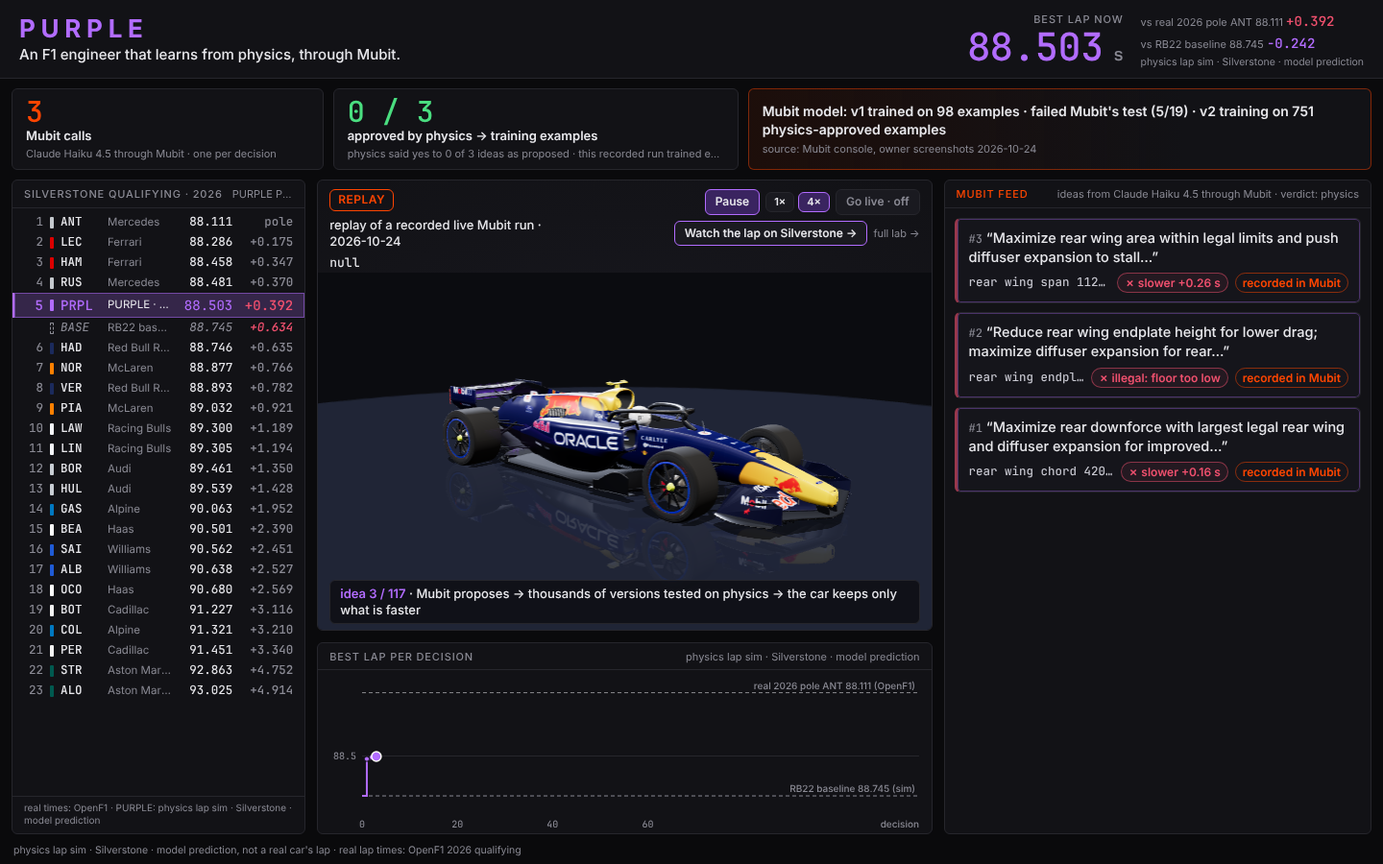
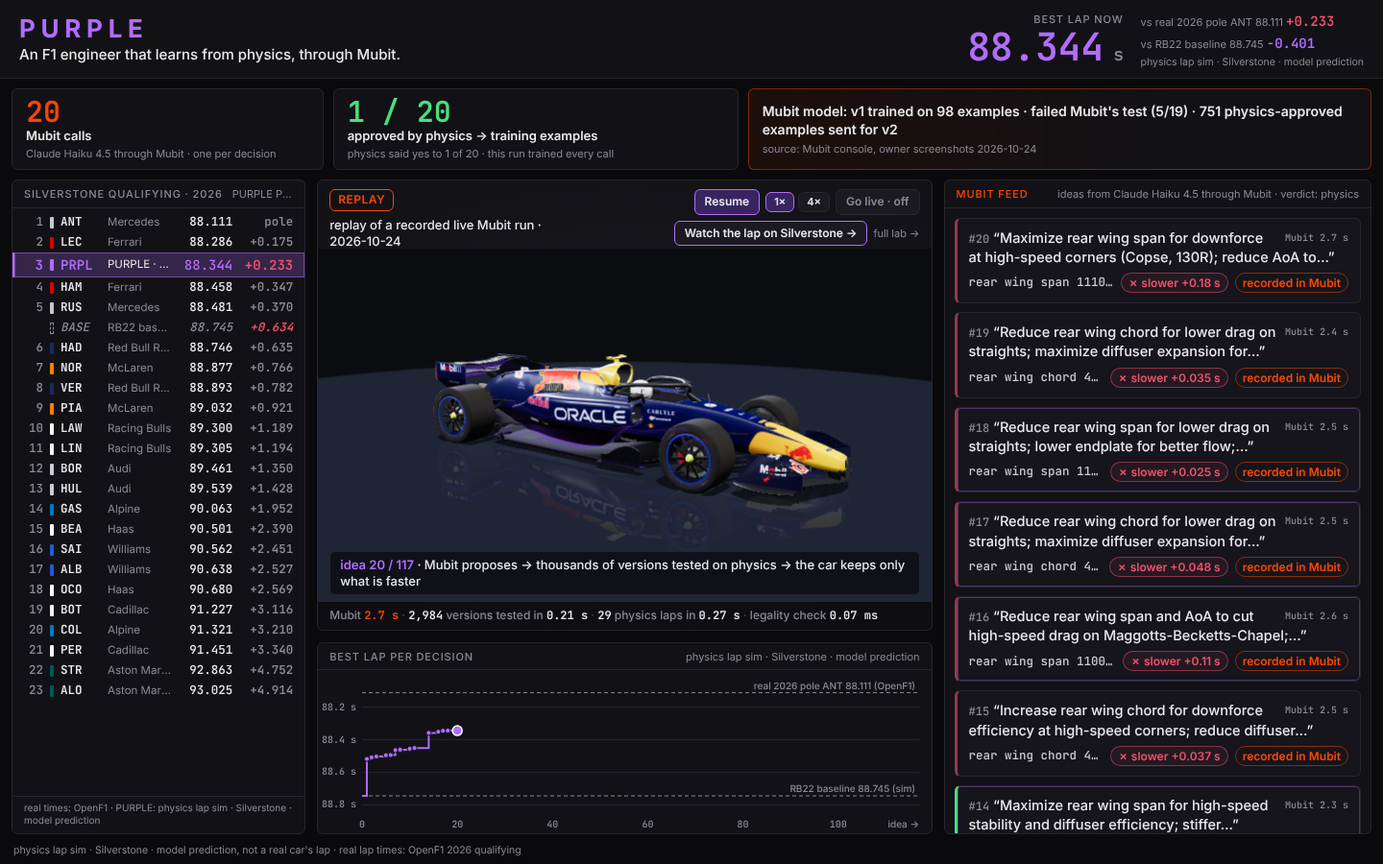
Demo polish: timing strip, training chips in replay, QA fixes
- Timing strip under the car, per decision, from the run's own rows:
  "Mubit 2.4 s · 2,985 versions tested in 0.64 s · 31 physics laps in 1.4 s ·
  legality check 0.2 ms" (per-version figure = rules check + quick lap estimate,
  stated in its tooltip); tiny "Mubit 2.6 s" on each feed card.
- replay.js: record_good runs (good.jsonl, or calls.jsonl rows with record_good)
  carry training_example sent + trained_request_id / failed / not trained per
  decision, plus record_good, designer_calls, training_examples; the demo shows
  the same chips and counters as live and prefers a record_good replay.
- Fixes: live training chip stuck on "pending" (refreshCard replaced the new node
  with itself); controls rebuilt every decision swallowed clicks at 4x; skip to
  end rebuilt the car 117 times; chart x labels stopped at 60 and the y axis had
  two labels; Go live said "unlock" where live is off; unlock pages link back to
  the demo.
- Test: replay of a record_good run (fixture + a route-recorded run).
- Fresh screenshots demo-*.png (1440x900, 390x844; live = stubbed API, no Mubit).

Claude-Session: https://claude.ai/code/session_014XiAhdMp7HgLX2NuhzBQy2

diff --git a/concept/demo/demo.js b/concept/demo/demo.js
@@ -78,7 +78,7 @@
     for (const dir of ["replays/", "../lab/replays/"]) {
       try {
         const idx = await getJson(dir + "index.json"), runs = (idx && idx.runs || []).filter(r => r.kind === "engineer-v2");
-        const want = qs.get("replay"), pick = runs.find(r => r.name === want) || runs.find(r => /corrections/.test(r.name)) || runs[0];
+        const want = qs.get("replay"), pick = runs.find(r => r.name === want) || runs.find(r => r.record_good) || runs.find(r => /corrections/.test(r.name)) || runs[0];
         if (pick) return { dir, meta: pick };
       } catch (e) { /* next */ }
     }
@@ -97,7 +97,10 @@
     return {
       n: d.decision, by: d.by, id: d.mubit_request_id || null, trained: !!d.trained, hypothesis: d.hypothesis || null, fallback: d.fallback_reason || null,
       change: d.proposal_change || null, as: d.as_proposed || null, kept: !!d.kept, new_peak: !!d.new_peak, d_head: d.d_head_s,
-      lap: d.result ? d.result.lap_s : null, best_change: d.best_change || null, params: d.params || null, train: extra.train || null, trainedId: null,
+      lap: d.result ? d.result.lap_s : null, best_change: d.best_change || null, params: d.params || null, train: extra.train || null, trainedId: extra.trainedId || null, trainErr: extra.trainErr || null,
+      // timings of this decision, as the engine measured them (concept/engineer/engine.js compactDecision)
+      t: { call_ms: isNum(d.latency_ms) ? d.latency_ms : null, versions: d.screen && isNum(d.screen.distinct) ? d.screen.distinct : null, screen_ms: d.screen && isNum(d.screen.ms) ? d.screen.ms : null,
+        laps: isNum(d.physics_laps) ? d.physics_laps : null, laps_ms: isNum(d.physics_ms) ? d.physics_ms : null },
     };
   }
 
@@ -114,8 +117,12 @@
   function replayStep() {
     const R = S.replay; if (!R || S.shown >= R.decisions.length) { S.playing = false; S.status = "done"; clearTimeout(S.timer); renderAll(); return false; }
     const d = R.decisions[S.shown++];
-    const c = norm(d, { train: d.trained ? "recorded" : approved(norm(d)) ? "approved-untrained" : "untrained" });
+    // a run recorded with record_good: the same chips as live ("→ Mubit training example" with the trained call's id / "correction: not trained")
+    const c = R.record_good
+      ? norm(d, d.training_example === "sent" ? { train: "trained", trainedId: d.trained_request_id } : d.training_example === "failed" ? { train: "failed", trainErr: d.training_error } : { train: "rejected" })
+      : norm(d, { train: d.trained ? "recorded" : approved(norm(d)) ? "approved-untrained" : "untrained" });
     S.calls += c.id ? 1 : 0;
+    if (c.train === "trained") S.examples++;
     addDecision(c, c.kept && c.params ? designFromDiff(c.params) : null, peakLapAfter(d));
     return true;
   }
@@ -131,7 +138,8 @@
     tick();
   }
   function pause() { S.playing = false; clearTimeout(S.timer); if (S.status === "playing") S.status = "paused"; renderCtl(); }
-  function skipToEnd() { pause(); while (S.replay && S.shown < S.replay.decisions.length) replayStep(); if (S.replay) { S.status = "done"; renderAll(); } }
+  // to the end in one go: the car is rebuilt once (the last kept car) and the page rendered once, not 117 times
+  function skipToEnd() { pause(); S.bulk = true; S.pendingCar = null; try { while (S.replay && S.shown < S.replay.decisions.length) replayStep(); } finally { S.bulk = false; } if (S.pendingCar) showCar(S.pendingCar); S.pendingCar = null; if (S.replay) { S.status = "done"; renderAll(); } }
 
   // ---------------------------------------------------------------- live (record_good) / offline demo
   async function startRun(llm) {
@@ -197,9 +205,9 @@
     if (S.best < prevBest - 1e-9) S.bestDesign = peakDesign || carDesign || S.bestDesign;
     S.trace.push([c.n, S.best]);
     S.marks.push({ n: c.n, kept: c.kept, lap: c.lap, legal: !(c.as && c.as.legal === false) });
-    if (carDesign) showCar(carDesign);
+    if (carDesign) { if (S.bulk) S.pendingCar = carDesign; else showCar(carDesign); }
     const cards = $("#dmCards"); cards.prepend(card(c)); while (cards.children.length > 40) cards.lastChild.remove();
-    renderAll(true);
+    if (!S.bulk) renderAll(true);
   }
   function showCar(d) {
     if (!d || !S.view) return;
@@ -207,7 +215,7 @@
   }
 
   // ---------------------------------------------------------------- render
-  function renderAll(fromDecision) { renderLap(); renderCounters(); renderBoard(); renderChart(); renderMode(); renderCtl(); renderProgress(); if (!fromDecision) renderFoot(); }
+  function renderAll(fromDecision) { renderLap(); renderCounters(); renderBoard(); renderChart(); renderMode(); renderCtl(); renderProgress(); renderTiming(); if (!fromDecision) renderFoot(); }
   function renderLap() {
     const best = S.final ? S.final.lap_s : S.best, base = S.baseline ? S.baseline.lap_s : RB22;
     $("#dmLap").replaceChildren(
@@ -220,11 +228,12 @@
   function counter(label, value, sub, cls, title) { return el("div", { class: "dm-ctr " + (cls || ""), title: title || null }, el("span", { class: "dm-ctr-v num" }, value), el("span", { class: "dm-ctr-l" }, label), sub ? el("span", { class: "src" }, sub) : null); }
   function renderCounters() {
     const ok = S.cards.filter(approved).length, n = S.cards.length;
-    const calls = S.mode === "mock" ? 0 : S.mode === "live" ? S.calls + S.examples : S.calls;
-    const okSub = S.mode === "live" ? "the physics sim said yes: sent to Mubit as trained calls" : S.mode === "mock" ? "offline demo: nothing is sent to Mubit" : "physics said yes to " + ok + " of " + n + " ideas as proposed · this recorded run trained every call";
+    const rg = S.mode === "live" || (S.mode === "replay" && !!(S.replay && S.replay.record_good));   // untrained calls + one trained re-send per approved idea
+    const calls = S.mode === "mock" ? 0 : rg ? S.calls + S.examples : S.calls;
+    const okSub = S.mode === "mock" ? "offline demo: nothing is sent to Mubit" : rg ? "physics said yes to " + ok + " of " + n + " ideas · each one sent to Mubit" : "physics said yes to " + ok + " of " + n + " · this run trained every call";
     $("#dmCounters").replaceChildren(
-      counter("Mubit calls", int(calls), S.mode === "mock" ? "offline demo: a scripted stand-in, not a model" : "Claude Haiku 4.5 through Mubit · one per decision", "mubit"),
-      counter("approved by physics → training examples", S.mode === "live" ? String(S.examples) : ok + " / " + n, okSub, "good", "an idea counts as approved when the model's change, exactly as proposed, is legal and faster on the physics lap sim"),
+      counter("Mubit calls", int(calls), S.mode === "mock" ? "offline demo: a scripted stand-in, not a model" : rg ? "Claude Haiku 4.5 · one per idea + one per example" : "Claude Haiku 4.5 through Mubit · one per decision", "mubit"),
+      counter("approved by physics → training examples", rg ? String(S.examples) : ok + " / " + n, okSub, "good", "an idea counts as approved when the model's change, exactly as proposed, is legal and faster on the physics lap sim" + (rg ? "; each approved idea is sent to Mubit again as a training example" : "")),
       el("div", { class: "dm-ctr dm-model", title: "source: " + MUBIT_MODEL.source }, el("span", { class: "dm-model-t" }, MUBIT_MODEL.text), el("span", { class: "src" }, "source: " + MUBIT_MODEL.source)));
   }
   function teamOfCode(code) { const seat = RP && RP.seat && RP.seat[code]; if (seat) { const t = TEAMS.find(x => x.id === seat || x.name === seat || x.code === seat); if (t) return t; } return TEAMS.find(t => (t.drivers || []).includes(code)) || null; }
@@ -265,10 +274,13 @@
     const ys = S.trace.map(p => p[1]).concat([POLE, base]), lo = Math.min(...ys) - 0.08, hi = Math.max(...ys) + 0.1;
     const pad = { l: 46, r: 12, t: 10, b: 22 }, iw = W - pad.l - pad.r, ih = H - pad.t - pad.b;
     const X = v => pad.l + v / xmax * iw, Y = v => pad.t + (v - lo) / (hi - lo) * ih;
-    const g = [], step = nice((hi - lo) / 4);
-    for (let v = Math.ceil(lo / step) * step; v <= hi + 1e-9; v += step) g.push(sv("line", { class: "grid", x1: pad.l, x2: W - pad.r, y1: Y(v), y2: Y(v) }), sv("text", { class: "ax", x: pad.l - 6, y: Y(v) + 3, "text-anchor": "end", text: v.toFixed(1) }));
-    const sx = nice(xmax / 6); for (let v = 0; v <= xmax + 1e-9; v += sx) if (X(v) < W - pad.r - 200) g.push(sv("text", { class: "ax", x: X(v), y: H - 6, "text-anchor": "middle", text: String(Math.round(v)) }));
-    g.push(sv("text", { class: "ax ttl", x: W - pad.r, y: H - 6, "text-anchor": "end", text: "decision" }));
+    const g = [];
+    let step = nice((hi - lo) / 4); if (Math.floor(hi / step) - Math.ceil(lo / step) < 2) step = nice(step / 2.5);   // at least three lap labels (0.5 -> 0.2)
+    let ydp = 0; while (ydp < 3 && Math.abs(Math.round(step * 10 ** ydp) - step * 10 ** ydp) > 1e-6) ydp++;   // 0.05 -> 2 decimals, 0.2 -> 1
+    for (let k = Math.ceil(lo / step); k * step <= hi + 1e-9; k++) { const v = k * step; g.push(sv("line", { class: "grid", x1: pad.l, x2: W - pad.r, y1: Y(v), y2: Y(v) }), sv("text", { class: "ax", x: pad.l - 6, y: Y(v) + 3, "text-anchor": "end", text: v.toFixed(ydp) + " s" })); }
+    // x: the idea number; the labels stop short of the axis title
+    const sx = nice(xmax / 6); for (let v = 0; v <= xmax + 1e-9; v += sx) if (X(v) < W - pad.r - 58) g.push(sv("text", { class: "ax", x: X(v), y: H - 6, "text-anchor": "middle", text: String(Math.round(v)) }));
+    g.push(sv("text", { class: "ax ttl", x: W - pad.r, y: H - 6, "text-anchor": "end", text: "idea →" }));
     const ref = (v, label, cls) => g.push(sv("line", { class: "ref " + cls, x1: pad.l, x2: W - pad.r, y1: Y(v), y2: Y(v) }), sv("text", { class: "reft", x: W - pad.r - 4, y: Y(v) - 4, "text-anchor": "end", text: label }));
     ref(POLE, "real 2026 pole " + POLE_CODE + " " + f3(POLE) + " (OpenF1)", "pole"); ref(base, "RB22 baseline " + f3(base) + " (sim)", "base");
     const p = S.trace;
@@ -296,7 +308,7 @@
     }
     $("#dmMode").replaceChildren(...[badge, line, S.error && S.mode !== "replay" ? el("span", { class: "warn src" }, S.error) : null].filter(Boolean));
   }
-  function renderCtl() {
+  function buildCtl() {
     const raceHref = () => { const R = C.race; return R && S.bestDesign ? R.url(S.bestDesign, { base: "../race/", ref: "redbull" }) : "../race/"; };
     const kids = [];
     if (S.mode === "replay") {
@@ -309,10 +321,22 @@
     }
     kids.push(S.liveOk
       ? el("button", { type: "button", class: "btn dm-golive", id: "dmGoLive", disabled: S.status === "running" ? true : null, title: "start the engine now: " + LIVE_CALLS + " Mubit calls (Claude Haiku 4.5, untrained); every idea the physics sim approves is re-sent by the server as a trained call, a Mubit training example", onclick: () => startRun("live") }, "Go live")
-      : el("a", { class: "btn dm-golive off", id: "dmGoLive", href: S.deploy ? "/api/unlock" : "#", title: "live needs " + (S.liveWhy || "the passcode"), onclick: S.deploy ? null : e => e.preventDefault() }, S.deploy ? "Go live · unlock" : "Go live · off"));
+      : (() => {
+        // locked: this deployment goes live after the passcode (its unlock page); off: no live calls here at all
+        const canUnlock = !!(S.deploy && S.deploy.live && S.deploy.live.available && !S.deploy.live.unlocked);
+        const href = canUnlock ? API + (S.deploy.live.unlock || "/api/unlock") : "#";
+        return el("a", { class: "btn dm-golive off", id: "dmGoLive", href, "aria-disabled": canUnlock ? null : "true", title: canUnlock ? "live Mubit calls need the passcode: unlock in this browser, then come back here" : "live is off: " + (S.liveWhy || "no engine API"), onclick: canUnlock ? null : e => e.preventDefault() }, canUnlock ? "Go live · unlock" : "Go live · off");
+      })());
     kids.push(el("a", { class: "btn dm-race", id: "dmRace", href: raceHref(), title: "the best car's physics-sim lap on the game's 3D Silverstone, with the RB22 and the real 2026 pole lap as ghosts", onclick: e => { e.currentTarget.href = raceHref(); } }, "Watch the lap on Silverstone →"),
       el("a", { class: "src dm-full", href: "../lab/" + (qs.get("api") ? "?api=" + encodeURIComponent(qs.get("api")) : "") }, "full lab →"));
     $("#dmCtl").replaceChildren(...kids);
+    S.raceFor = S.bestDesign;
+  }
+  // the controls are rebuilt only when what they show changes: a rebuild on every decision (4×: every 250 ms) swallowed clicks
+  function renderCtl() {
+    const key = JSON.stringify([S.mode, S.playing, S.status, S.shown > 0, S.pace, S.liveOk, S.liveWhy, S.deploy && S.deploy.live || null]);
+    if (key !== S.ctlKey || !$("#dmCtl").firstChild) { S.ctlKey = key; buildCtl(); return; }
+    if (S.raceFor !== S.bestDesign) { const a = $("#dmRace"), R = C.race; if (a && R && S.bestDesign) a.href = R.url(S.bestDesign, { base: "../race/", ref: "redbull" }); S.raceFor = S.bestDesign; }
   }
   function renderProgress() {
     const host = $("#dmProgress");
@@ -321,6 +345,26 @@
     else host.replaceChildren();
   }
   function renderFoot() { $("#dmFoot").textContent = FOOT; }
+  // ---------------------------------------------------------------- timings (per decision, as the engine measured them)
+  const secs = ms => (ms < 1000 ? (ms / 1000).toFixed(2) : (ms / 1000).toFixed(1)) + " s";
+  const who = () => (S.mode === "mock" ? "stand-in" : "Mubit");
+  function callTime(c) {
+    if (!c.t || !isNum(c.t.call_ms)) return null;
+    return el("span", { class: "dm-rid num", title: S.mode === "mock" ? "the scripted stand-in's answer time (no Mubit call)" : "time for this Mubit call (Claude Haiku 4.5 through Mubit), measured by the engine" }, who() + " " + secs(c.t.call_ms));
+  }
+  function renderTiming() {
+    const host = $("#dmTiming"); if (!host) return;
+    const c = S.cards[S.cards.length - 1], t = c && c.t;
+    if (!t) { host.replaceChildren(el("span", null, "timings for each idea appear here: the " + who() + " call, the versions tested, the physics laps")); host.removeAttribute("title"); return; }
+    const parts = [];
+    const seg = (title, ...kids) => parts.push(el("span", { class: "dm-tseg", title }, ...kids));
+    if (isNum(t.call_ms)) seg(S.mode === "mock" ? "the scripted stand-in's answer (no Mubit call)" : "the Mubit call: Claude Haiku 4.5 through Mubit, request to answer", who() + " ", el("b", null, secs(t.call_ms)));
+    if (isNum(t.versions) && isNum(t.screen_ms)) seg("versions of the idea generated around it, each checked against the 2026 rules and given a quick lap estimate (4 worker threads); the best go to the physics lap sim", el("b", null, int(t.versions)), " versions tested in ", el("b", null, secs(t.screen_ms)));
+    if (isNum(t.laps) && isNum(t.laps_ms)) seg("full physics laps of Silverstone on the most promising versions (4 worker threads)", el("b", null, int(t.laps)), " physics laps in ", el("b", null, secs(t.laps_ms)));
+    if (isNum(t.versions) && t.versions > 0 && isNum(t.screen_ms)) { const per = t.screen_ms / t.versions; seg("time per version tested: the 2026 rules check plus the quick lap estimate, so the rules check alone takes at most this", "legality check ", el("b", null, per.toFixed(per < 0.1 ? 2 : 1) + " ms")); }
+    host.replaceChildren(...parts.flatMap((p, i) => (i ? [el("span", { class: "dm-tsep", "aria-hidden": "true" }, " · "), p] : [p])));
+    host.title = "idea #" + c.n + " · measured by the engine during the " + (S.mode === "replay" ? "recorded run" : "run");
+  }
   // ---------------------------------------------------------------- the Mubit feed card
   function verdict(c) {
     if (c.by !== "mubit") return el("span", { class: "dm-chip muted", title: c.fallback || "" }, "no usable answer");
@@ -343,12 +387,13 @@
   }
   function card(c) {
     const n = el("article", { class: "dm-card" + (approved(c) ? " ok" : " no") + (c.new_peak ? " peak" : ""), "data-n": c.n, title: c.id ? "Mubit request " + c.id + (c.trained ? " (trained call)" : " (untrained call)") : null },
-      el("div", { class: "dm-c1" }, el("span", { class: "num dm-n" }, "#" + c.n), " ", c.hypothesis ? "“" + trim(c.hypothesis, 90) + "”" : "the model's answer could not be used"),
+      el("div", { class: "dm-c1" }, callTime(c), el("span", { class: "num dm-n" }, "#" + c.n), " ", c.hypothesis ? "“" + trim(c.hypothesis, 90) + "”" : "the model's answer could not be used"),
       el("div", { class: "dm-c2" }, el("span", { class: "dm-chg" }, c.change ? plainChange(c.change, 2) : "no change"), verdict(c), trainChip(c)));
     c.el = n;
     return n;
   }
-  function refreshCard(c) { if (c.el && c.el.parentNode) { const n = card(c); c.el.replaceWith(n); } }
+  // card(c) re-points c.el at the new node, so keep the old one first (replacing c.el after card(c) was a no-op: the chip stayed "pending")
+  function refreshCard(c) { const old = c.el; if (!old || !old.parentNode) return; const n = card(c); n.style.animation = "none"; old.replaceWith(n); }
 
   // ---------------------------------------------------------------- 3D (EI.conceptView public API only, as the engine drawer mounts it)
   function mountView() {

diff --git a/concept/engineer/replay.js b/concept/engineer/replay.js
@@ -9,6 +9,8 @@
 // (mock: no mreq_ id) are refused.
 // Output: <out>/index.json (the list, newest first) and <out>/<name>.json (format "purple-replay/1"; one decision per Mubit call or
 // fallback step, the tree's result nodes, the peak, per-run stats including the share of kept gains from Mubit-directed decisions).
+// A run recorded with record_good (cli.js --record-good: good.jsonl; the engine route: calls.jsonl rows with record_good: true) also
+// carries, per decision, training_example "sent" + trained_request_id | "failed" | "not trained", as the live stream says it.
 "use strict";
 const fs = require("fs"), path = require("path");
 const ROOT = path.join(__dirname, "..", "..");
@@ -78,20 +80,38 @@ function fromV1(dir, name) {
   };
 }
 
-// engine v2 runs: decisions.jsonl (compact decisions) + calls.jsonl + run.json (+ tree.json)
+// record_good runs (concept/engineer/record-good.js): which decisions became a Mubit training example. The terminal run writes
+// good.jsonl ({ decision, d_lap_s, untrained_id, trained_id, served_by } or { decision, error }); the engine route writes only the
+// calls.jsonl rows with record_good: true (iteration = decision). good.jsonl wins when both exist. null = not a record_good run.
+function trainingOf(dir, calls) {
+  const good = readJsonl(path.join(dir, "good.jsonl")), rg = calls.filter(c => c.record_good === true);
+  if (!good.length && !rg.length) return null;
+  const by = new Map();
+  if (good.length) for (const g of good) by.set(g.decision, g.error ? { error: String(g.error) } : { trained_id: g.trained_id || null, served_by: g.served_by || null });
+  else for (const c of rg) by.set(c.iteration, c.status === "error" || !c.mubit_request_id ? { error: c.mubit_code || "error" } : { trained_id: c.mubit_request_id, served_by: c.served_by || null });
+  return by;
+}
+
+// engine v2 runs: decisions.jsonl (compact decisions) + calls.jsonl + run.json (+ tree.json, + good.jsonl for a record_good run)
 function fromV2(dir, name) {
   const decs = readJsonl(path.join(dir, "decisions.jsonl")), calls = readJsonl(path.join(dir, "calls.jsonl")), run = readJson(path.join(dir, "run.json")), ev = readJsonl(path.join(dir, "events.jsonl"));
   const start = ev.find(e => e.type === "start") || {}, fin = run && run.final ? run.final : null;
   const team = (run && run.opts && run.opts.team) || "redbull", base = design.baseline(team === "generic" ? undefined : { team });
   const nodes = [{ id: "n0", parent: null, decision: null, kind: "root", lap_s: start.baseline ? start.baseline.lap_s : null, legal: true, by: "baseline" }];
   for (const e of ev.filter(x => x.type === "decision")) for (const n of e.nodes || []) nodes.push(n);
-  const decisions = decs.map(d => Object.assign({}, d, { at: (ev.find(e => e.type === "decision" && e.decision === d.decision) || {}).at || null, params: (() => { const e = ev.find(x => x.type === "decision" && x.decision === d.decision); return e && e.head_params ? paramDiff(base, e.head_params) : null; })() }));
+  const training = trainingOf(dir, calls);
+  // per decision, as the live stream says it: "sent" (+ the trained call's request id), "failed" (the trained re-send errored) or "not trained"
+  const trainOf = d => { if (!training) return {}; const t = training.get(d.decision); return !t ? { training_example: "not trained" } : t.error ? { training_example: "failed", training_error: t.error } : { training_example: "sent", trained_request_id: t.trained_id }; };
+  const decisions = decs.map(d => Object.assign({}, d, { at: (ev.find(e => e.type === "decision" && e.decision === d.decision) || {}).at || null, params: (() => { const e = ev.find(x => x.type === "decision" && x.decision === d.decision); return e && e.head_params ? paramDiff(base, e.head_params) : null; })() }, trainOf(d)));
   const last = ev.filter(e => e.type === "decision").pop() || {};
   const ids = calls.map(c => c.mubit_request_id).filter(Boolean);
+  const examples = training ? decisions.filter(d => d.training_example === "sent").length : null;
   return {
     format: FORMAT, name, kind: "engineer-v2", engine: "engine v2 · autonomous engineer: Mubit decides the subspace → surrogate screen → physics confirm → interactions → kept / reverted by the numbers",
     source: path.relative(ROOT, dir), run_id: run ? run.run_id : null, recorded_at: (calls[0] || {}).created_at || null, model: (calls.find(c => c.model) || {}).model || null,
     trained: calls.some(c => c.trained === true), calls: calls.length, request_ids: ids, all_real: ids.length > 0 && ids.every(isReal), stop_reason: run ? run.stop_reason : null,
+    // record_good: designer calls untrained; the physics-approved ones re-sent as trained calls (training examples)
+    record_good: !!training, designer_calls: training ? calls.filter(c => c.record_good !== true).length : calls.length, training_examples: examples,
     team, baseline: start.baseline || null, pole_s: bench.racepace().silverstone.pole.s, peak: last.peak || null, stats: last.stats || (fin && fin.summary && fin.summary.stats) || null,
     label: "physics lap sim · quasi-steady-state point mass · Silverstone · calibrated to 2026 British GP qualifying (recorded run; replayed, not re-run)",
     nodes, decisions,
@@ -106,7 +126,7 @@ function build(dirs, out) {
     const r = fs.existsSync(path.join(dir, "decisions.jsonl")) ? fromV2(dir, name) : fromV1(dir, name);
     if (!r.all_real) { console.error("replay: skipped " + name + " (not every call has a real Mubit request id: never replay a mock as the AI)"); continue; }
     fs.writeFileSync(path.join(out, name + ".json"), JSON.stringify(r) + "\n");
-    index.push({ name, kind: r.kind, engine: r.engine, recorded_at: r.recorded_at, calls: r.calls, trained: r.trained, model: r.model, decisions: r.decisions.length, baseline_lap_s: r.baseline && r.baseline.lap_s, peak_lap_s: r.peak && r.peak.lap_s, gap_to_pole_s: r.peak && r.peak.gap_to_pole_s, directed_gain_share: r.stats ? r.stats.directed_gain_share : null, first_request_id: r.request_ids[0] || null, last_request_id: r.request_ids[r.request_ids.length - 1] || null, file: name + ".json" });
+    index.push({ name, kind: r.kind, engine: r.engine, recorded_at: r.recorded_at, calls: r.calls, trained: r.trained, record_good: !!r.record_good, training_examples: r.record_good ? r.training_examples : undefined, model: r.model, decisions: r.decisions.length, baseline_lap_s: r.baseline && r.baseline.lap_s, peak_lap_s: r.peak && r.peak.lap_s, gap_to_pole_s: r.peak && r.peak.gap_to_pole_s, directed_gain_share: r.stats ? r.stats.directed_gain_share : null, first_request_id: r.request_ids[0] || null, last_request_id: r.request_ids[r.request_ids.length - 1] || null, file: name + ".json" });
   }
   // engine v2 runs first, then the fastest
   index.sort((a, b) => (a.kind === "engineer-v2" ? 0 : 1) - (b.kind === "engineer-v2" ? 0 : 1) || String(b.recorded_at || "").localeCompare(String(a.recorded_at || "")));

diff --git a/server/vercel.js b/server/vercel.js
@@ -236,8 +236,8 @@ function create() {
   const app = new Hono();
   // ---- the passcode: typed once per browser, kept as an HttpOnly cookie (signed; never the passcode itself)
   const page = (title, body) => "<!doctype html><html lang=en><head><meta charset=utf-8><meta name=viewport content='width=device-width,initial-scale=1'><title>" + title + "</title><style>:root{color-scheme:dark}body{margin:0;background:#0d0d12;color:#e8e6f0;font:15px/1.5 system-ui,sans-serif;display:grid;place-items:center;min-height:100vh;padding:16px;box-sizing:border-box}main{max-width:420px;width:100%}h1{font-size:18px;margin:0 0 8px}p{color:#a9a6b8}input,button{font:inherit;padding:10px 12px;border-radius:8px;border:1px solid #3a3550;background:#16151f;color:inherit;width:100%;box-sizing:border-box;margin-top:8px}button{background:#7b4dff;border-color:#7b4dff;cursor:pointer}a{color:#b9a3ff}.bad{color:#ff8a8a}</style></head><body><main>" + body + "</main></body></html>";
-  const form = msg => page("PURPLE · unlock live Mubit", "<h1>Live Mubit calls</h1><p>Without the passcode the public site runs every Mubit call in mock mode. The passcode unlocks live, untrained calls in this browser for " + LIMITS.cookie_h + " h (limits: " + LIMITS.live_calls_per_ip_hour + " calls per hour per IP, " + LIMITS.live_calls_global_hour + " per hour site-wide).</p>" + (msg ? "<p class=bad>" + msg + "</p>" : "") + "<form method=post action=/api/unlock><input name=passcode type=password autocomplete=current-password placeholder=passcode required autofocus><button type=submit>Unlock</button></form><p><a href=/concept/lab/>Concept lab</a> · <a href=/lab/>Research lab</a> · <a href=/>Game</a></p>");
-  app.get("/api/unlock", c => c.html(authorized(c) ? page("PURPLE · unlocked", "<h1>Unlocked</h1><p>Live Mubit calls are on in this browser. Mode \"live\" in the concept lab now calls Mubit (untrained). <a href=/api/lock>Lock again</a>.</p><p><a href=/concept/lab/>Concept lab</a> · <a href=/lab/>Research lab</a></p>") : form(liveOff() ? "Live calls are off on this deployment: " + liveOff() : "")));
+  const form = msg => page("PURPLE · unlock live Mubit", "<h1>Live Mubit calls</h1><p>Without the passcode the public site runs every Mubit call in mock mode. The passcode unlocks live, untrained calls in this browser for " + LIMITS.cookie_h + " h (limits: " + LIMITS.live_calls_per_ip_hour + " calls per hour per IP, " + LIMITS.live_calls_global_hour + " per hour site-wide).</p>" + (msg ? "<p class=bad>" + msg + "</p>" : "") + "<form method=post action=/api/unlock><input name=passcode type=password autocomplete=current-password placeholder=passcode required autofocus><button type=submit>Unlock</button></form><p><a href=/>Demo</a> · <a href=/concept/lab/>Concept lab</a> · <a href=/lab/>Research lab</a></p>");
+  app.get("/api/unlock", c => c.html(authorized(c) ? page("PURPLE · unlocked", "<h1>Unlocked</h1><p>Live Mubit calls are on in this browser. Mode \"live\" in the concept lab now calls Mubit (untrained). <a href=/api/lock>Lock again</a>.</p><p><a href=/>Back to the demo: press Go live</a> · <a href=/concept/lab/>Concept lab</a> · <a href=/lab/>Research lab</a></p>") : form(liveOff() ? "Live calls are off on this deployment: " + liveOff() : "")));
   app.post("/api/unlock", async c => {
     const ip = ipOf(c), t = await c.req.text(); let pass = "";
     try { pass = (c.req.header("content-type") || "").includes("json") ? String(JSON.parse(t).passcode || "") : String(new URLSearchParams(t).get("passcode") || ""); } catch (e) { pass = ""; }

diff --git a/test/engineer-record-good.test.js b/test/engineer-record-good.test.js
@@ -76,4 +76,36 @@ test("route record_good (stub Mubit): approved decision -> exactly one extra tra
   const rows = fs.readFileSync(path.join(r.j.data.dir, "calls.jsonl"), "utf8").trim().split("\n").map(JSON.parse);
   assert.equal(rows.length, 3); assert.equal(rows.filter(x => x.trained === true && x.record_good === true).length, 1, "the trained re-send is logged, so the budget counts it");
   assert.match(r.j.data.dir, /concept-engine/);
+  // the run folder replays with the same training chips the live stream showed (concept/engineer/replay.js, no good.jsonl on the route)
+  const rep = require("../concept/engineer/replay.js").fromV2(r.j.data.dir, "route-run");
+  assert.equal(rep.record_good, true); assert.equal(rep.training_examples, 1); assert.equal(rep.designer_calls, 2);
+  assert.deepEqual(rep.decisions.map(d => d.training_example), ["sent", "not trained"]);
+  assert.equal(rep.decisions[0].trained_request_id, ex[0].trained_request_id);
+});
+
+test("replay of a record_good run: per decision training_example sent (+ trained request id) / not trained, from good.jsonl or calls.jsonl", () => {
+  const replay = require("../concept/engineer/replay.js");
+  const FIX = path.join(__dirname, "fixtures", "record-good-run");   // synthetic 4-decision run (placeholder request ids), as cli.js --record-good writes it
+  const check = r => {
+    assert.equal(r.record_good, true); assert.equal(r.designer_calls, 4); assert.equal(r.training_examples, 2); assert.equal(r.calls, 6);
+    assert.deepEqual(r.decisions.map(d => d.training_example), ["not trained", "sent", "not trained", "sent"]);
+    assert.equal(r.decisions[1].trained_request_id, "mreq_" + "21".padStart(32, "0"));
+    assert.equal(r.decisions[0].trained_request_id, undefined);
+    // the demo's timing strip reads these straight from the decision rows
+    for (const d of r.decisions) assert.ok(d.latency_ms > 0 && d.screen.distinct > 0 && d.screen.ms > 0 && d.physics_laps > 0 && d.physics_ms > 0);
+  };
+  check(replay.fromV2(FIX, "fixture"));
+  // the engine route writes no good.jsonl: the calls.jsonl rows with record_good: true say the same
+  const dir = tmp(); for (const f of ["decisions.jsonl", "events.jsonl", "calls.jsonl", "run.json"]) fs.copyFileSync(path.join(FIX, f), path.join(dir, f));
+  check(replay.fromV2(dir, "route"));
+  // a failed trained re-send is "failed", never "sent"
+  fs.writeFileSync(path.join(dir, "good.jsonl"), JSON.stringify({ decision: 2, error: "MUBIT_TIMEOUT" }) + "\n");
+  const f = replay.fromV2(dir, "failed");
+  assert.equal(f.decisions[1].training_example, "failed"); assert.equal(f.decisions[3].training_example, "not trained"); assert.equal(f.training_examples, 0);
+  // a run without record_good carries no training_example field (the demo then shows the run's own trained / untrained label)
+  const plain = replay.fromV2(path.join(__dirname, "..", "docs", "concept", "loop-runs", "trained-corrections-seed12"), "plain");
+  assert.equal(plain.record_good, false); assert.ok(plain.decisions.every(d => !("training_example" in d)));
+  // build: the index lists the record_good flag and the example count
+  const out = tmp(); const idx = replay.build([FIX], out);
+  assert.equal(idx.length, 1); assert.equal(idx[0].record_good, true); assert.equal(idx[0].training_examples, 2);
 });

diff --git a/concept/demo/demo.css b/concept/demo/demo.css
@@ -61,6 +61,11 @@
 .dm-prog { display: inline-block; padding: 5px 10px; background: rgba(10, 10, 12, .72); border: 1px solid var(--line); border-radius: var(--r); font: 500 13px/1.3 var(--sans); color: var(--text); }
 .dm-prog b { color: var(--purple); font-weight: 600; }
 .dm-hero-br { flex: none; padding: 0 12px 7px; font-size: 10.5px; }
+/* the slim timing strip under the car: the latest idea's Mubit call, versions tested, physics laps, legality check */
+.dm-timing { flex: none; position: relative; z-index: 2; padding: 6px 12px 7px; border-top: 1px solid var(--line); background: rgba(10, 10, 12, .35); font: 500 12px/1.35 var(--sans); color: var(--muted); white-space: nowrap; overflow: hidden; text-overflow: ellipsis; }
+.dm-timing b { font: 600 12px var(--mono); color: var(--text); }
+.dm-tseg:first-child b { color: var(--mubit); }
+.dm-tsep { color: #4a4a54; }
 .dm-chart { flex: none; height: 200px; display: flex; flex-direction: column; overflow: hidden; }
 .dm-svg { flex: 1 1 auto; min-height: 0; }
 .dm-svg svg { display: block; }
@@ -111,6 +116,7 @@
   .dm-lap-main { align-items: flex-start; }
   .dm-counters { grid-template-columns: 1fr 1fr; padding: 10px 16px 0; }
   .dm-c2 { flex-wrap: wrap; }
+  .dm-timing { white-space: normal; }
   .dm-model { grid-column: 1 / -1; }
   .dm-main { display: flex; flex-direction: column; padding: 10px 16px; }
   .dm-centre { order: -1; }

diff --git a/concept/demo/index.html b/concept/demo/index.html
@@ -36,6 +36,7 @@
     <section class="panel dm-hero" aria-label="the concept car">
       <div class="dm-hero-top"><div class="dm-hero-tl" id="dmMode"></div><div class="dm-hero-tr" id="dmCtl"></div></div>
       <div class="dm-view-wrap"><div class="dm-view" id="dmView"></div><div class="dm-hero-bl" id="dmProgress"></div></div>
+      <div class="dm-timing" id="dmTiming" aria-label="timings of the latest idea"></div>
     </section>
     <section class="panel dm-chart" aria-label="best lap per decision">
       <div class="ph"><span class="label">Best lap per decision</span><span class="src" id="dmChartMeta"></span></div>

diff --git a/docs/agents/lanes/DEMO.md b/docs/agents/lanes/DEMO.md
@@ -4,6 +4,13 @@ Status: in_progress P3.T5 (PRs #24, #26, #28, #30 merged; sheet-recomposition up
 
 Owns: see `docs/agents/PARALLEL_PLAN.md` §1. Update this file at the end of every session (dated section on top; keep older ones).
 
+### 2026-10-24 20:40 London — helper (Claude, session_014XiAhdMp7HgLX2NuhzBQy2) — demo polish: timings, training chips in replay, QA
+- Status: done (local branch `claude/demo-polish`, not pushed).
+- Files changed: `concept/demo/` (timing strip under the car: "Mubit 2.4 s · 2,985 versions tested in 0.64 s · 31 physics laps in 1.4 s · legality check 0.2 ms", from each decision row's latency_ms / screen.distinct+ms / physics_laps+ms; the legality figure is screen ms per version, i.e. rules check + quick lap estimate, said in its tooltip; tiny "Mubit 2.6 s" per feed card; record_good replays show the live chips; fixes below), `concept/engineer/replay.js` (record_good runs: per decision `training_example` "sent" + `trained_request_id` | "failed" | "not trained", from good.jsonl or the calls.jsonl rows with record_good: true; run-level `record_good`, `designer_calls`, `training_examples`; index lists them), `server/vercel.js` (unlock pages link back to the demo), `test/engineer-record-good.test.js` + `test/fixtures/record-good-run/` (synthetic 4-decision run, placeholder ids), screenshots `docs/concept/dashboard-shots/demo-*.png`.
+- Fixed: live training chip never left "→ training example…" (refreshCard replaced the new node with itself); controls were rebuilt every decision and swallowed clicks at 4×; skip-to-end rebuilt the 3D car 117 times; chart x labels stopped at 60 of 117 and the y axis had two labels (now ≥ 3, with "s"); Go live showed "unlock" on a deployment where live is off.
+- Default replay: the demo now picks a record_good run first (index entry `record_good: true`), then a corrections run. Build the integrator's run with `node concept/engineer/replay.js --out concept/demo/replays docs/concept/loop-runs/<run>` (note: `build` rewrites index.json with only the dirs given).
+- Verify: `npm test` (see report); Playwright QA at 1440×900 and 390×844 with a mocked engine API (no Mubit): all controls, counters vs the run (117 calls, 4/117 approved, best 87.700 = peak, PRPL P1), no overflow, no console errors, no "null" text.
+
 ### 2026-10-24 19:30 London — helper (Claude, session_014XiAhdMp7HgLX2NuhzBQy2) — focused demo page + record_good on the engine route
 - Status: done (local branch `claude/demo-page`, not pushed).
 - Files changed: `concept/demo/` (index.html, demo.js, demo.css, replays/ = the newest recorded live corrections run, trained-corrections-seed12, built by `node concept/engineer/replay.js`), `concept/engineer/record-good.js` (new, shared), `concept/engineer/cli.js` (--record-good uses it), `server/campaign-route.js` (`record_good` on POST /run mode engineer; SSE `training_example`), `server/vercel.js` (live reservation 2 × max_calls with record_good), `test/engineer-record-good.test.js`, `vercel.json` (root → `/concept/demo/?api=/`), `docs/DEPLOY.md` (page table, limits), screenshots `docs/concept/dashboard-shots/demo-*.png`.
